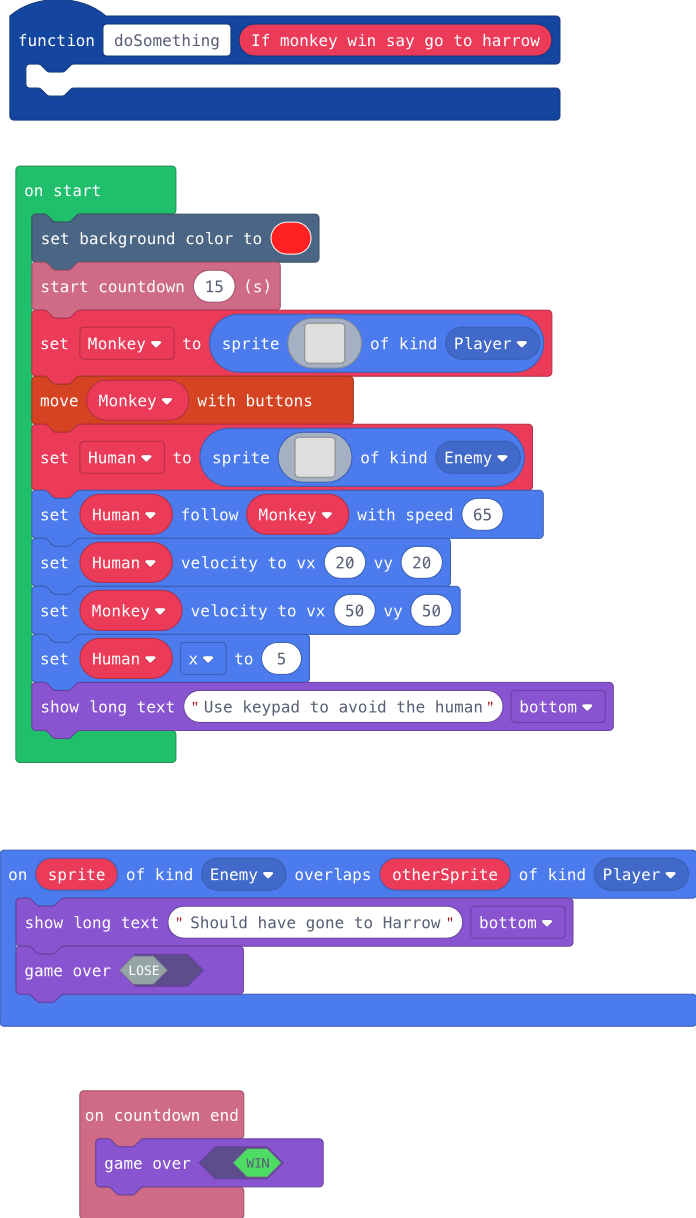
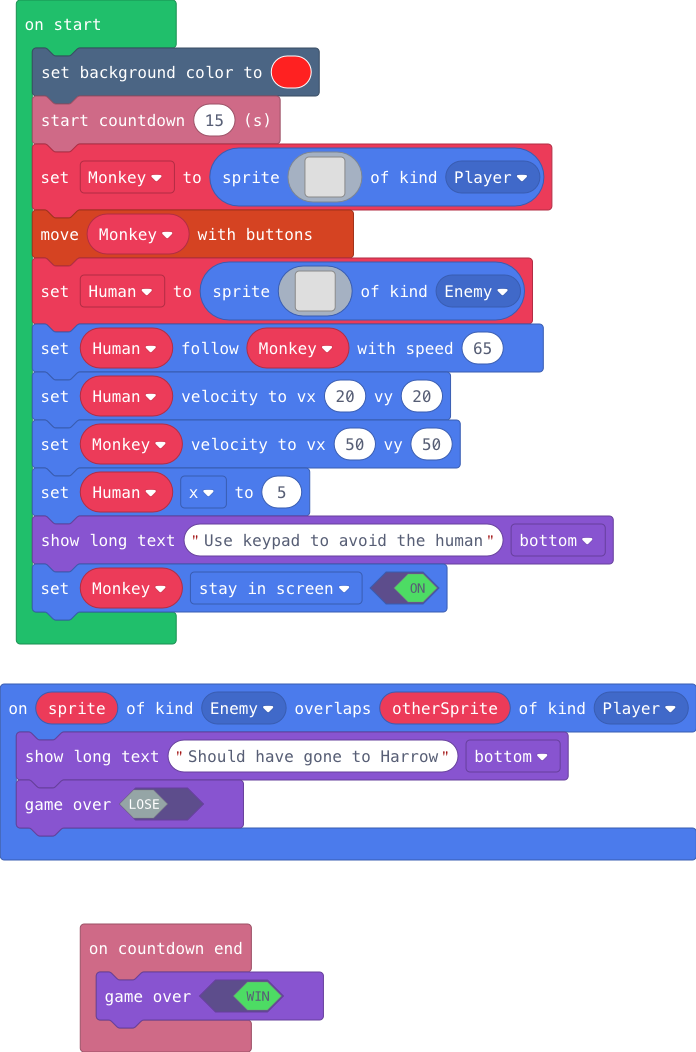
Update main.blocks, main.ts

diff --git a/main.ts b/main.ts
@@ -2,9 +2,6 @@ sprites.onOverlap(SpriteKind.Enemy, SpriteKind.Player, function (sprite, otherSp
     game.showLongText("Should have gone to Harrow", DialogLayout.Bottom)
     game.over(false)
 })
-function doSomething (If_monkey_win_say_go_to_harrow: string) {
-	
-}
 info.onCountdownEnd(function () {
     game.over(true)
 })
@@ -60,3 +57,4 @@ Human.setVelocity(20, 20)
 Monkey.setVelocity(50, 50)
 Human.x = 5
 game.showLongText("Use keypad to avoid the human", DialogLayout.Bottom)
+Monkey.setFlag(SpriteFlag.StayInScreen, true)
